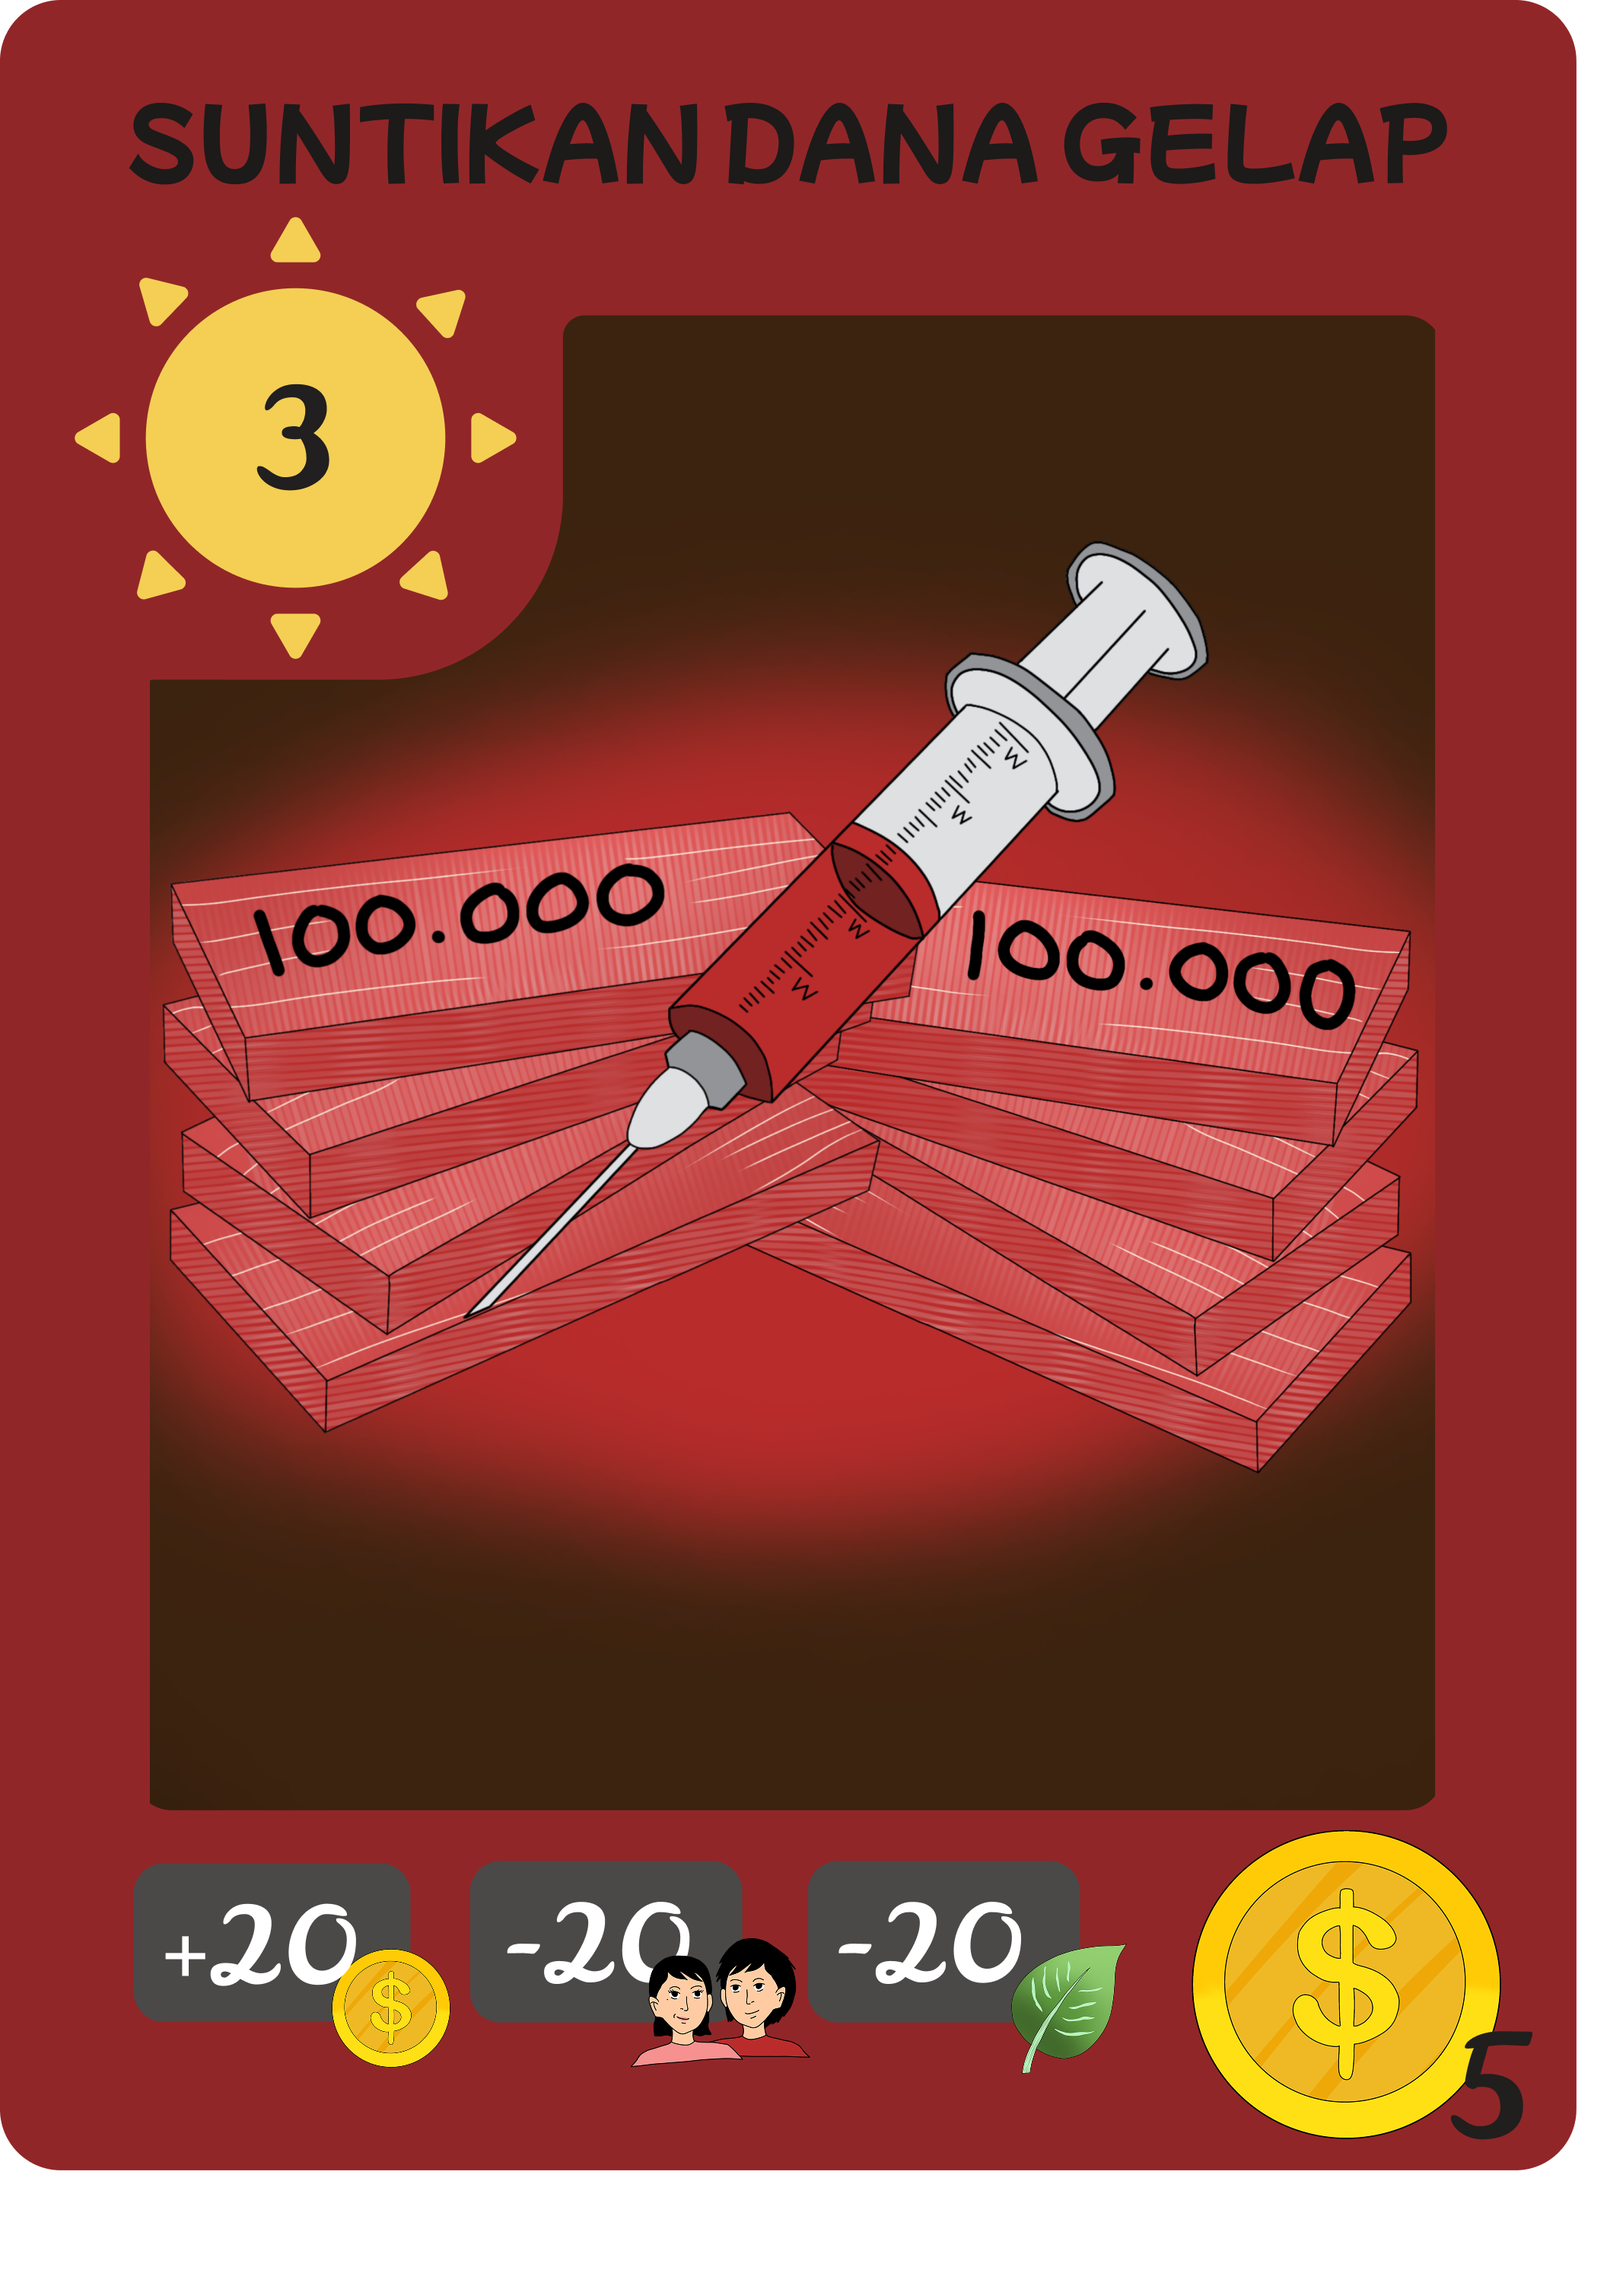
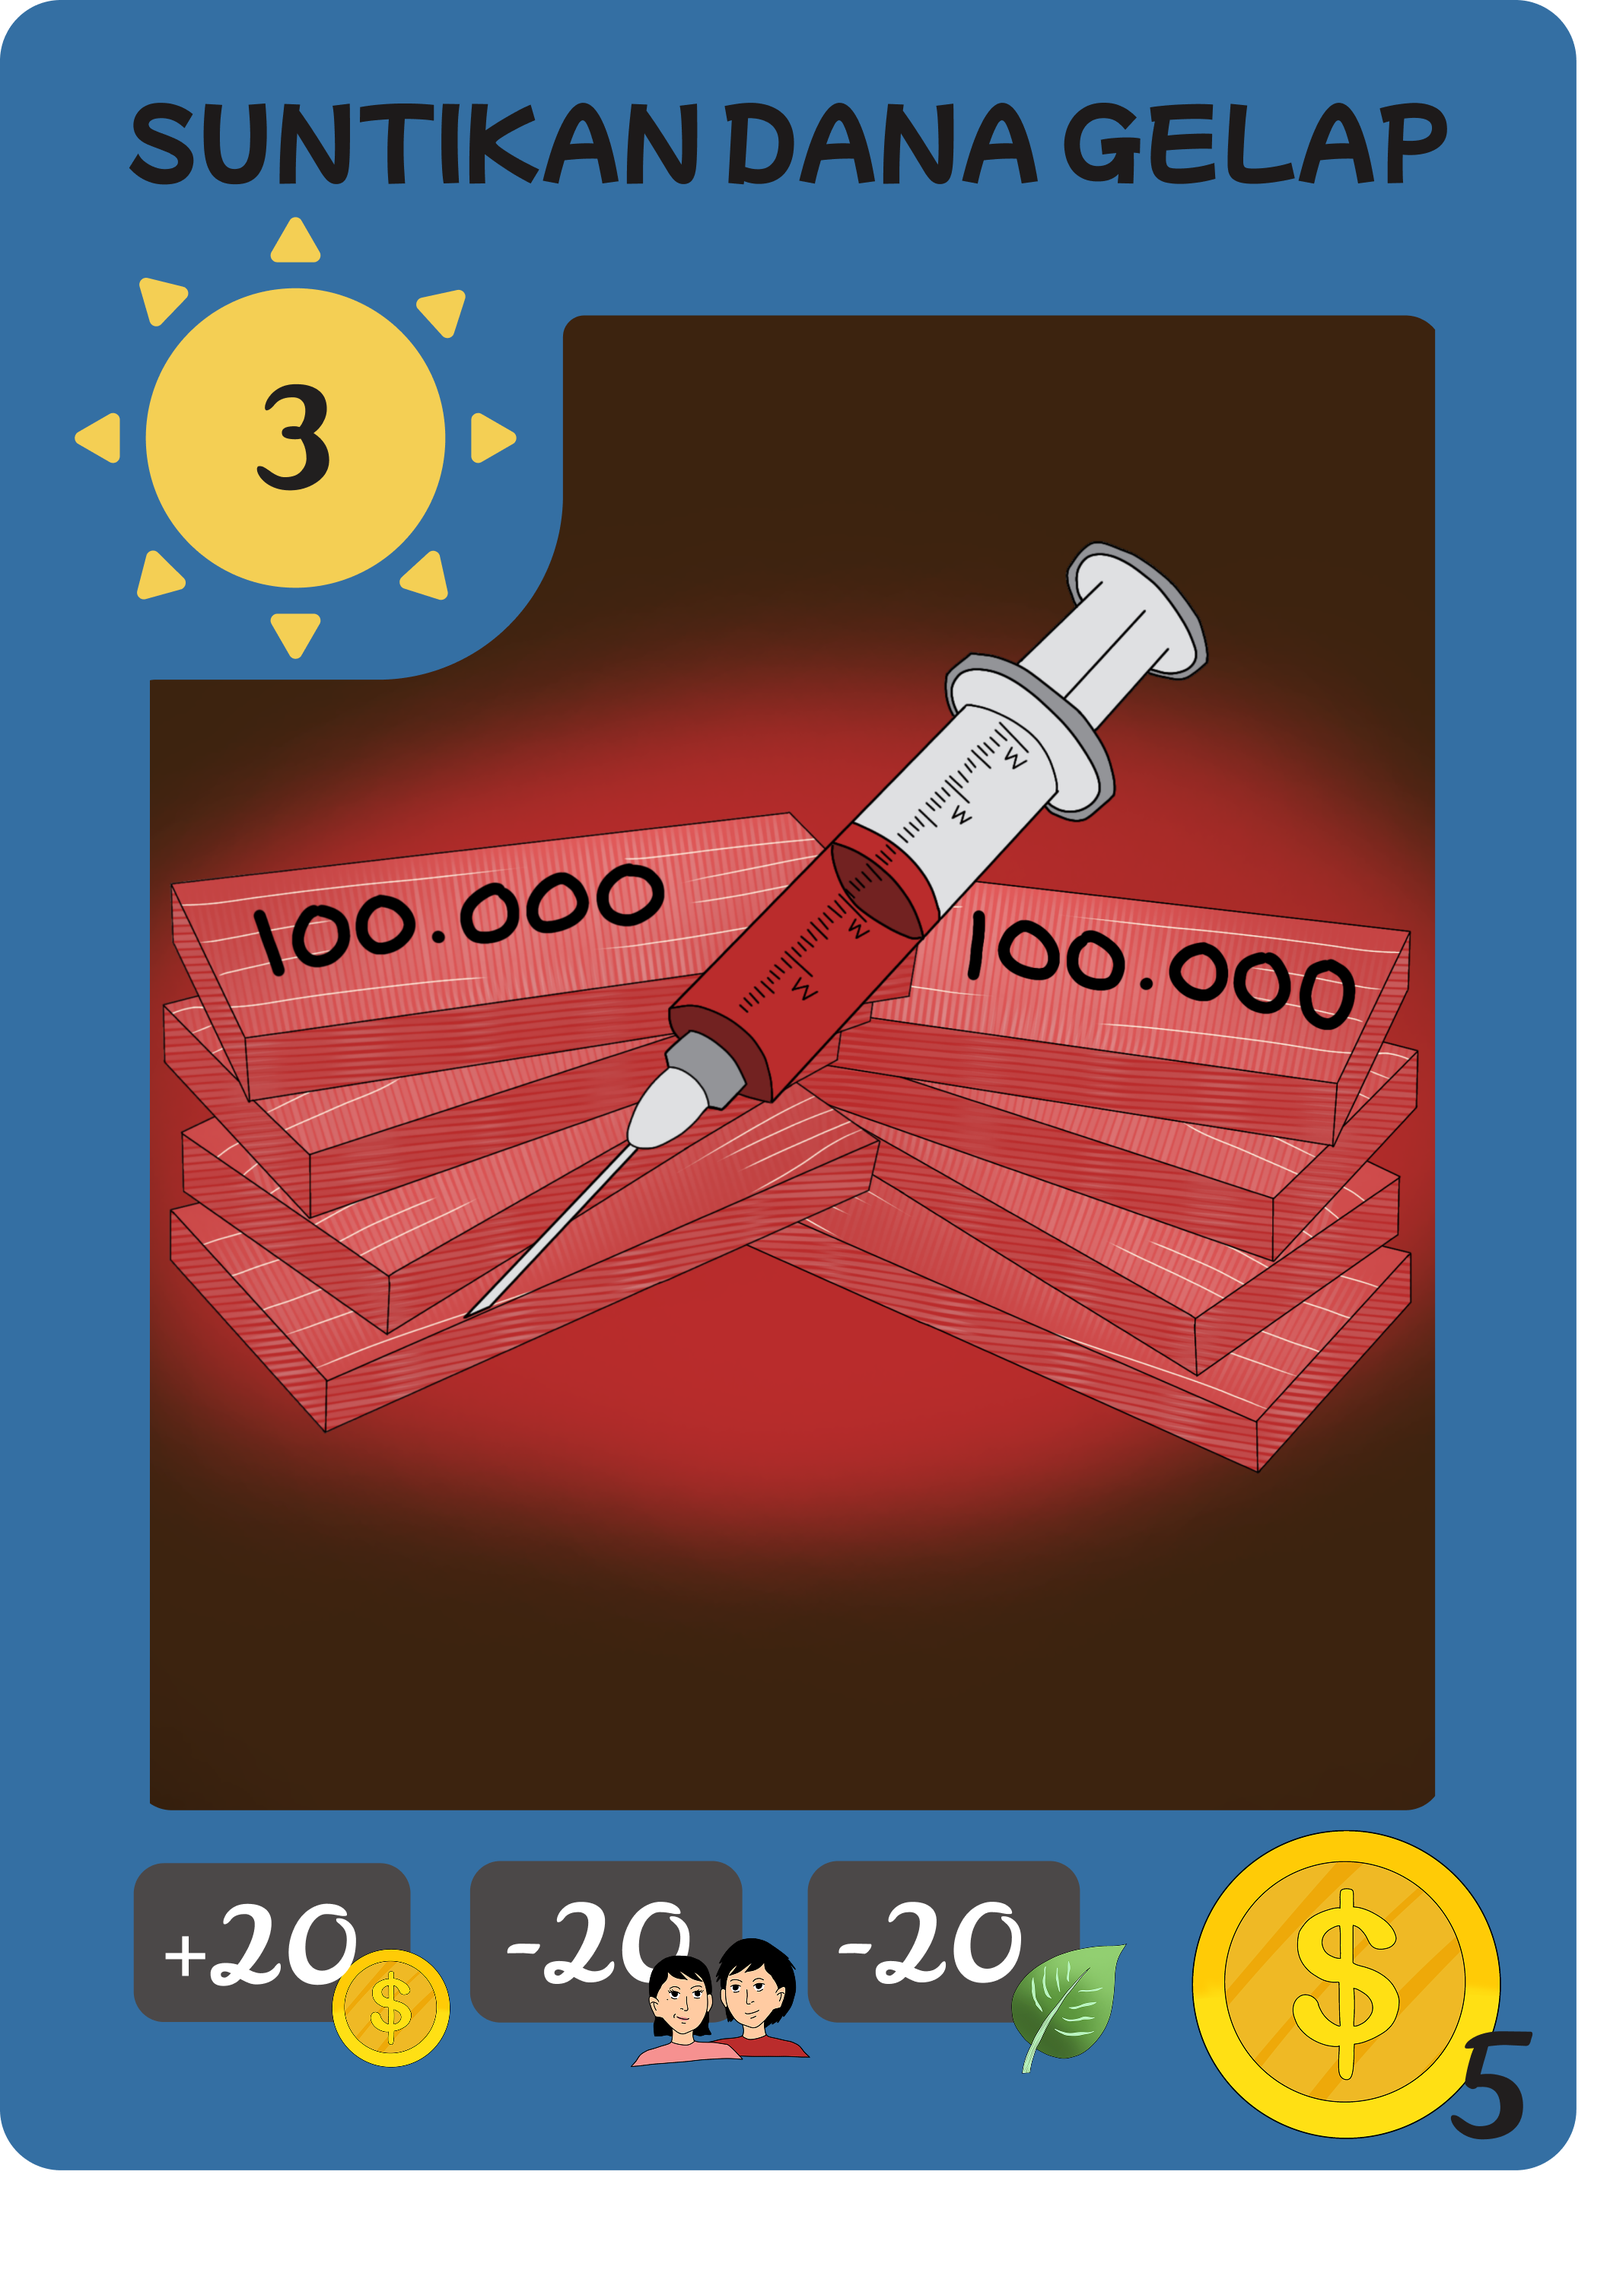
Fixx last edit

diff --git a/My project/Assets/_Scripts/DraftingManager.cs b/My project/Assets/_Scripts/DraftingManager.cs
@@ -11,7 +11,7 @@ public class DraftingManager : MonoBehaviour
     public GameObject cardUIPrefab;  // Template "Raga" kartu
 
     [Header("Data")]
-    public List<CardData> allAvailableCards; // Masukkan 20 aset kartu ke sini dari Inspector
+    public List<CardData> allAvailableCards; // Masukkan aset kartu ke sini dari Inspector
 
     private void Awake()
     {
@@ -21,10 +21,54 @@ public class DraftingManager : MonoBehaviour
 
     private void Start()
     {
-        // Berlangganan (Subscribe) ke event pergantian hari
-        //GameManager.Instance.OnDayChanged += ShowDrafting;
+        // Pastikan panel drafting tertutup saat game mulai
+        if (draftingPanel != null)
+        {
+            draftingPanel.SetActive(false);
+        }
+
+        // Langsung bagikan kartu awal ke tangan pemain secara acak
+        GenerateStartingHand();
+
+        // (Opsional) Berlangganan ke event pergantian hari untuk memunculkan drafting nanti
+        // GameManager.Instance.OnDayChanged += ShowDrafting;
     }
 
+    // FUNGSI BARU: Membagikan kartu awal langsung ke tangan pemain
+    public void GenerateStartingHand()
+    {
+        // 1. (Opsional tapi disarankan) Bersihkan tangan pemain terlebih dahulu 
+        // jika kebetulan ada kartu nyangkut dari editor.
+        // Asumsi variabel tempat menampung kartu di HandManager bernama "cardContainer" atau serupa.
+        // Jika beda nama, sesuaikan dengan milikmu ya!
+        /*
+        foreach (Transform child in HandManager.Instance.cardContainer)
+        {
+            Destroy(child.gameObject);
+        }
+        */
+
+        List<CardData> tempCardPool = new List<CardData>(allAvailableCards);
+
+        // 2. Loop ini yang menentukan jumlah kartu awal (batasnya adalah 3)
+        for (int i = 0; i < 3; i++)
+        {
+            if (tempCardPool.Count == 0) break;
+
+            int randomIndex = Random.Range(0, tempCardPool.Count);
+            CardData randomCard = tempCardPool[randomIndex];
+
+            // Masukkan ke tangan
+            HandManager.Instance.AddCardToHand(randomCard);
+
+            // Hapus dari pool agar tidak kembar
+            tempCardPool.RemoveAll(card => card == randomCard);
+        }
+
+        Debug.Log("[DRAFTING] 3 Kartu awal berhasil diacak dan masuk ke tangan.");
+    }
+
+    // Fungsi ini sekarang HANYA dipanggil saat pergantian hari / event tertentu
     public void ShowDrafting()
     {
         draftingPanel.SetActive(true);
@@ -35,61 +79,49 @@ public class DraftingManager : MonoBehaviour
             Destroy(child.gameObject);
         }
 
-        // 2. Munculkan 3 kartu baru
+        // 2. Buat copy dari list utama ke temporary pool. 
+        List<CardData> tempCardPool = new List<CardData>(allAvailableCards);
+
+        // 3. Munculkan 3 kartu baru secara acak tanpa duplikat
         for (int i = 0; i < 3; i++)
         {
-            // Ambil data acak dari 20 kartu
-            int randomIndex = Random.Range(0, allAvailableCards.Count);
-            CardData randomCard = allAvailableCards[randomIndex];
+            if (tempCardPool.Count == 0) break;
 
-            // Cetak raga kartunya ke layar
+            int randomIndex = Random.Range(0, tempCardPool.Count);
+            CardData randomCard = tempCardPool[randomIndex];
+
             GameObject newCard = Instantiate(cardUIPrefab, cardContainer);
-
-            // Suntikkan roh/datanya ke dalam raga tersebut
             newCard.GetComponent<CardUI>().Setup(randomCard);
+
+            tempCardPool.RemoveAll(card => card == randomCard);
         }
     }
 
     public void TryBuyCard(CardData selectedCard)
     {
-        // 1. CEK DULU: Apakah tangan sudah penuh (Batas 4)?
         if (!HandManager.Instance.CanAddCard())
         {
             Debug.LogWarning("[DRAFTING] Gagal beli! Tangan sudah penuh.");
-            // (Opsional) Munculkan notifikasi ke layar
-            UIManager.Instance.txtNotification.text = "Tangan Penuh! Maksimal 4 Kartu.";
             return;
         }
 
-        // 2. CEK UANG: Apakah kas cukup?
         if (GameManager.Instance.statEkonomi >= selectedCard.costEconomy)
         {
-            // Potong uang
             GameManager.Instance.ModifyStats(StatType.Ekonomi, -selectedCard.costEconomy);
-
-            // MASUKKAN KARTU KE TANGAN
             HandManager.Instance.AddCardToHand(selectedCard);
 
-            // Tutup layar drafting
             draftingPanel.SetActive(false);
             Debug.Log($"[DRAFTING] Berhasil membeli {selectedCard.cardName}!");
         }
         else
         {
             Debug.LogWarning("[DRAFTING] Kas Ekonomi tidak cukup!");
-            UIManager.Instance.txtNotification.text = "Uang Kas Tidak Cukup!";
         }
     }
 
-    // Fungsi untuk melewati fase drafting tanpa membeli apa pun
     public void SkipDrafting()
     {
         Debug.Log("[DRAFTING] Pemain memilih untuk melewati pengambilan kartu.");
-
-        // Langsung tutup panel tanpa syarat uang
         draftingPanel.SetActive(false);
-
-        // Jika kamu ingin memberi penalti atau pesan kecil:
-        // UIManager.Instance.txtNotification.text = "Hari berlanjut tanpa kartu baru.";
     }
 }
